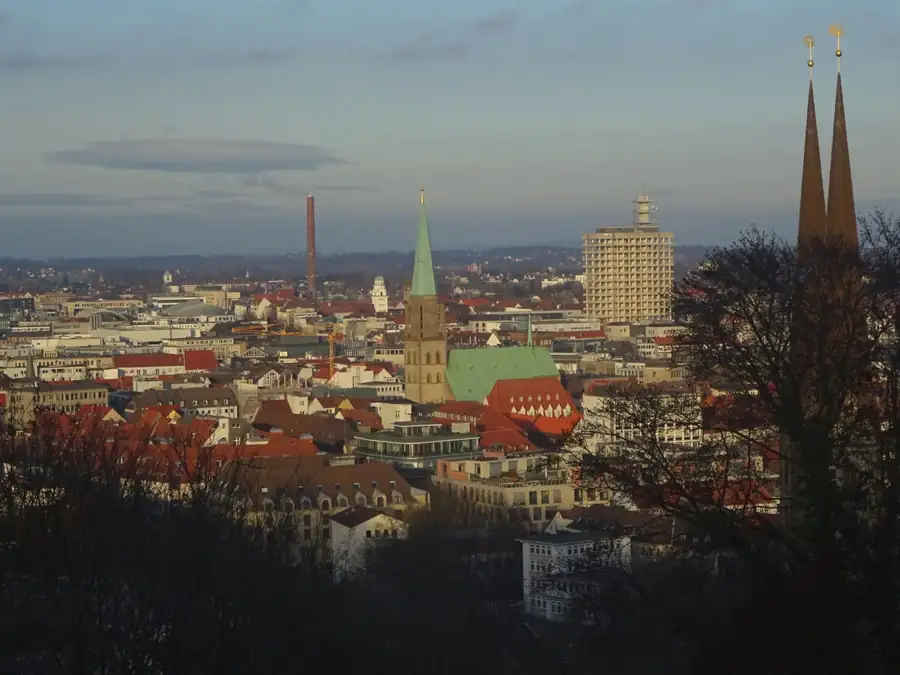
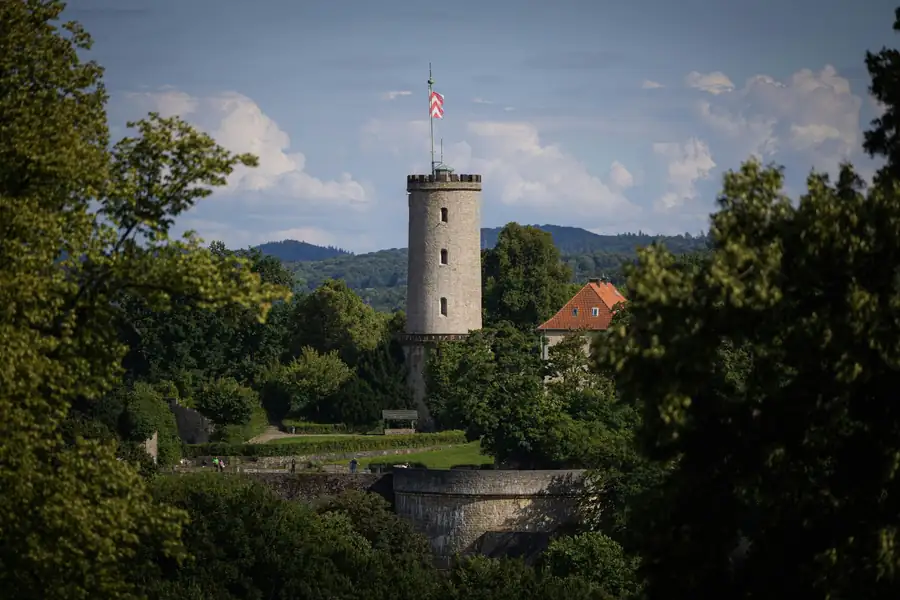
Bielefeld-Website: eigene Fotos (Sparrenburg, Obersee, Park) eingesetzt
Claude-Session: https://claude.ai/code/session_017EcS19T2WLP5mwW1LXNPTy

diff --git a/weiterempfohlen-bielefeld/website/src.html b/weiterempfohlen-bielefeld/website/src.html
@@ -171,7 +171,8 @@ h3{font:700 1.45rem/1.15 var(--display);letter-spacing:-.01em;text-wrap:balance}
 .door.has-photo .glass,.door.has-photo .handle,.door.has-photo .open{display:none}
 .door.has-photo .sticker{width:26%;right:auto;left:36%;top:24%}
 .band-photo{position:relative;min-height:clamp(280px,40vw,500px);display:flex;align-items:flex-end;padding-block:36px;color:#F6F1E7;background:radial-gradient(110% 120% at 80% 0%,#4f8a86 0%,#24393a 55%,#121718 100%)}
-.band-photo.has-photo{background:linear-gradient(0deg,rgba(12,16,17,.85) 0%,rgba(12,16,17,.25) 55%,rgba(12,16,17,0) 80%),var(--photo) center 35%/cover no-repeat}
+.band-photo.has-photo{background:linear-gradient(0deg,rgba(12,16,17,.82) 0%,rgba(12,16,17,.2) 50%,rgba(12,16,17,0) 75%),var(--photo) center 22%/cover no-repeat}
+.bts-city{margin-top:40px}
 .band-photo .wrap{width:100%;display:grid;gap:8px}
 .band-photo svg{width:46px;height:46px}
 .band-photo p{font:800 clamp(2rem,5.4vw,4.2rem)/1 var(--display);letter-spacing:-.03em;text-wrap:balance}
@@ -1043,6 +1044,7 @@ footer{padding-block:40px;border-top:1px solid var(--line)}
       <li style="--d:240ms"><b>Vor der Kamera nur mit Zusage</b><span>Der Gast nennt nur einen Ort, der schon zugesagt hat. Nichts muss nachgedreht werden.</span></li>
       <li style="--d:360ms"><b>Die nächste Folge steht</b><span>Der empfohlene Ort ist nächste Woche dran, und die Kette läuft weiter.</span></li>
     </ol>
+    <figure class="bts bts-city" data-photo="img/stadtteile.webp" data-photo-m="img/stadtteile-m.webp" role="img" aria-label="Luftaufnahme vom Obersee in Schildesche am frühen Morgen, dahinter Wiesen und die Stadt"><figcaption><b>Von der Altstadt bis an den Obersee</b><span>Schildesche am frühen Morgen</span><span>Foto: unikat media</span></figcaption></figure>
     <div class="bezirke">
       <div><h3>Quer durch die Stadtteile.</h3><p>Die Kette startet in der Altstadt. Danach läuft sie frei weiter, niemand legt den nächsten Betrieb fest. Der Host ergänzt die Schlussfrage:</p><p class="bz-q">„Und wo gehst du hin, wenn du nicht hier bist? Gern auch in einem anderen Stadtteil.“</p><p>Eine Kettenkarte zeigt, durch welche Stadtteile die Kette schon gelaufen ist: in den Posts, auf der Website und im Monatsbericht.</p></div>
       <div class="bz-map">
@@ -1053,6 +1055,7 @@ footer{padding-block:40px;border-top:1px solid var(--line)}
         <p class="note">In der Testphase soll die Kette mindestens fünf der zehn Stadtbezirke erreichen. Ein Ziel, keine Pflicht.</p>
       </div>
     </div>
+    <figure class="bts bts-city" data-photo="img/nachbarn.webp" data-photo-m="img/nachbarn-m.webp" role="img" aria-label="Zwei Menschen spazieren Hand in Hand durch einen Bielefelder Park im Frühling"><figcaption><b>Für die Menschen, die hier wohnen</b><span>Frühling im Park</span><span>Foto: unikat media</span></figcaption></figure>
     <div class="criteria">
       <div><h3>Für Nachbarn, nicht für Touristen.</h3><p>Jede Folge stellt dieselbe Frage: Warst du da schon? Was eine Geschichte braucht, mindestens eins davon:</p></div>
       <div class="crit stagger" data-reveal>
@@ -1091,9 +1094,9 @@ footer{padding-block:40px;border-top:1px solid var(--line)}
   </div>
 </section>
 
-<section class="band-photo" data-photo="img/stadtbild.webp" data-photo-m="img/stadtbild-m.webp" aria-label="Bielefeld empfiehlt Bielefeld. Im Bild der Blick über die Bielefelder Innenstadt">
+<section class="band-photo" data-photo="img/stadtbild.webp" data-photo-m="img/stadtbild-m.webp" aria-label="Bielefeld empfiehlt Bielefeld. Im Bild die Sparrenburg zwischen Bäumen, dahinter der Teutoburger Wald">
   <div class="wrap"><svg aria-hidden="true"><use href="#zeichen"/></svg><p>Bielefeld empfiehlt Bielefeld.</p><span>Jede Woche ein Ort, empfohlen vom letzten.</span></div>
-  <p class="ki2">Foto: Skyline der Stadt Bielefeld, Hakanneu, <a href="https://commons.wikimedia.org/wiki/File:Skyline_der_Stadt_Bielefeld.jpg" target="_blank" rel="noopener">Wikimedia Commons</a> · <a href="https://creativecommons.org/licenses/by-sa/4.0/deed.de" target="_blank" rel="noopener">CC BY-SA 4.0</a></p>
+  <p class="ki2">Foto: Sparrenburg, unikat media</p>
 </section>
 
 <section class="sec stage" id="folge">
@@ -1555,7 +1558,7 @@ footer{padding-block:40px;border-top:1px solid var(--line)}
 <footer>
   <div class="wrap foot">
     <svg viewBox="0 0 1864 262" role="img" aria-label="Weiterempfohlen."><use href="#wm"/></svg>
-    <p>Arbeitstitel. Ein Konzept von unikat media, Oktober 2026. Orte, Zitate und Zahlen in den Beispielen sind ausgedacht und dienen nur der Veranschaulichung. Titelfoto „Altstadt Bielefeld“: BfB Bielefeld, <a href="https://commons.wikimedia.org/wiki/File:Altstadt_Bielefeld.jpg" target="_blank" rel="noopener">Wikimedia Commons</a>, Lizenz <a href="https://creativecommons.org/licenses/by-sa/4.0/deed.de" target="_blank" rel="noopener">CC BY-SA 4.0</a>, zugeschnitten und abgedunkelt. Foto „Skyline der Stadt Bielefeld“: Hakanneu, <a href="https://commons.wikimedia.org/wiki/File:Skyline_der_Stadt_Bielefeld.jpg" target="_blank" rel="noopener">Wikimedia Commons</a>, Lizenz <a href="https://creativecommons.org/licenses/by-sa/4.0/deed.de" target="_blank" rel="noopener">CC BY-SA 4.0</a>, zugeschnitten und abgedunkelt. Foto „Hinter den Kulissen“: unikat media. Alle übrigen Fotos sind KI-generierte Symbolbilder.</p>
+    <p>Arbeitstitel. Ein Konzept von unikat media, Oktober 2026. Orte, Zitate und Zahlen in den Beispielen sind ausgedacht und dienen nur der Veranschaulichung. Titelfoto „Altstadt Bielefeld“: BfB Bielefeld, <a href="https://commons.wikimedia.org/wiki/File:Altstadt_Bielefeld.jpg" target="_blank" rel="noopener">Wikimedia Commons</a>, Lizenz <a href="https://creativecommons.org/licenses/by-sa/4.0/deed.de" target="_blank" rel="noopener">CC BY-SA 4.0</a>, zugeschnitten und abgedunkelt. Fotos Sparrenburg, Obersee, Park und „Hinter den Kulissen“: unikat media. Alle übrigen Fotos sind KI-generierte Symbolbilder.</p>
   </div>
 </footer>
 <div class="toast" id="toast" role="status" aria-live="polite"></div>

diff --git a/weiterempfohlen-bielefeld/website/make_webp.py b/weiterempfohlen-bielefeld/website/make_webp.py
@@ -4,7 +4,7 @@
 import os
 from PIL import Image
 SRC, OUT = 'website/img', 'website/img-web'
-BIG = {'hero': 1920, 'stadtbild': 1920, 'drehtag': 1600, 'theke': 1200}
+BIG = {'hero': 1920, 'stadtbild': 1920, 'stadtteile': 1600, 'nachbarn': 1600, 'drehtag': 1600, 'theke': 1200}
 QUALITY = {'hero': 60, 'stadtbild': 60}  # dunkel überlagerte Hintergründe vertragen mehr Kompression
 os.makedirs(OUT, exist_ok=True)
 for f in sorted(os.listdir(SRC)):

diff --git a/weiterempfohlen-bielefeld/BIELEFELD_ENTSCHEIDUNGEN.md b/weiterempfohlen-bielefeld/BIELEFELD_ENTSCHEIDUNGEN.md
@@ -110,7 +110,9 @@ Für die Folie (sichtbar): „Bestehende Lokalkanäle: Lokal-Guides, Stadt-Apps 
 | Einsatz | Datei | Urheber | Lizenz |
 | --- | --- | --- | --- |
 | Titelfoto Website (`hero`) | File:Altstadt_Bielefeld.jpg | BfB Bielefeld | CC BY-SA 4.0 |
-| Bandfoto „Bielefeld empfiehlt Bielefeld.“ (`kirchplatz` → `stadtbild`) | File:Skyline_der_Stadt_Bielefeld.jpg (Sparrenburg und Stadt) | Hakanneu | CC BY-SA 4.0 |
+| Bandfoto „Bielefeld empfiehlt Bielefeld.“ (`stadtbild`) | Sparrenburg zwischen Bäumen | unikat media (von Stefan geliefert) | eigenes Foto |
+| Stadtteile (`stadtteile`) | Obersee in Schildesche, Drohne | unikat media (von Stefan geliefert) | eigenes Foto |
+| Nachbarn (`nachbarn`) | Park im Frühling | unikat media (von Stefan geliefert) | eigenes Foto |
 | Reserve | File:Siegfriedplatz,_Bielefeld_-_panoramio.jpg | INDALOMANIA | CC BY-SA 3.0 |
 
 Die Fotos hat Stefan am 8. Oktober 2026 von Commons geladen; sie sind eingesetzt.

diff --git a/weiterempfohlen-bielefeld/UEBERGABE_BIELEFELD.md b/weiterempfohlen-bielefeld/UEBERGABE_BIELEFELD.md
@@ -86,7 +86,7 @@ Alle Befehle laufen aus `weiterempfohlen-bielefeld/`. Playwright ist global inst
 
 ## Offene Punkte
 
-- **Fotos:** Die zwei Bielefeld-Fotos (Altstadt Bielefeld, BfB Bielefeld; Skyline der Stadt Bielefeld, Hakanneu; beide CC BY-SA 4.0) sind eingesetzt, die Website ist veröffentlicht.
+- **Fotos:** Titelfoto Altstadt Bielefeld (BfB Bielefeld, CC BY-SA 4.0) plus drei eigene Fotos von unikat media (Sparrenburg, Obersee, Park) sind eingesetzt, die Website ist veröffentlicht.
 - **Kanalname prüfen:** Ist @weiterempfohlen.bi auf Instagram und TikTok frei?
 - **Followerzahlen prüfen:** Die Zahlen der Bielefelder Kanäle und von @bielefoodies sind Näherungswerte. Vor dem Termin in der App prüfen.
 - **Adresse von Martin Knabenreich prüfen:** nicht veröffentlicht, vermutlich martin.knabenreich@bielefeld-marketing.de. Vor dem Versand über die Zentrale (0521 55774-555) bestätigen.
